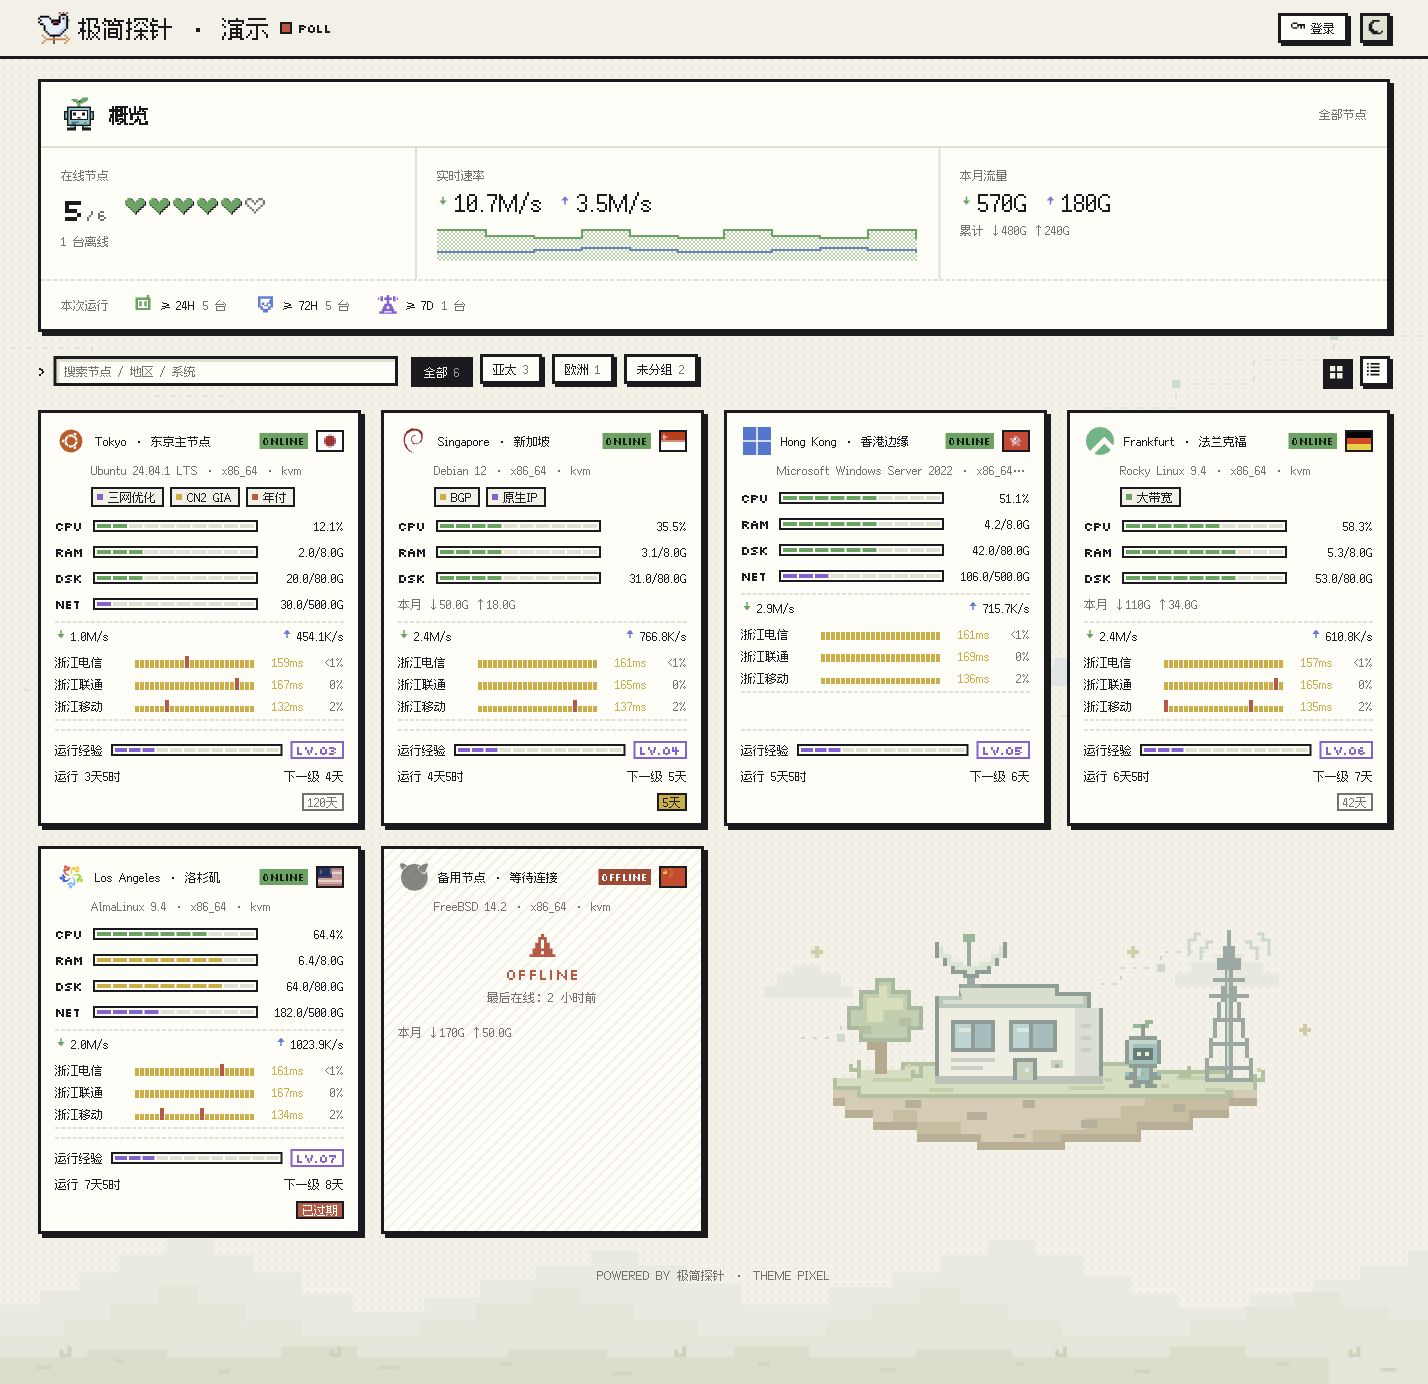
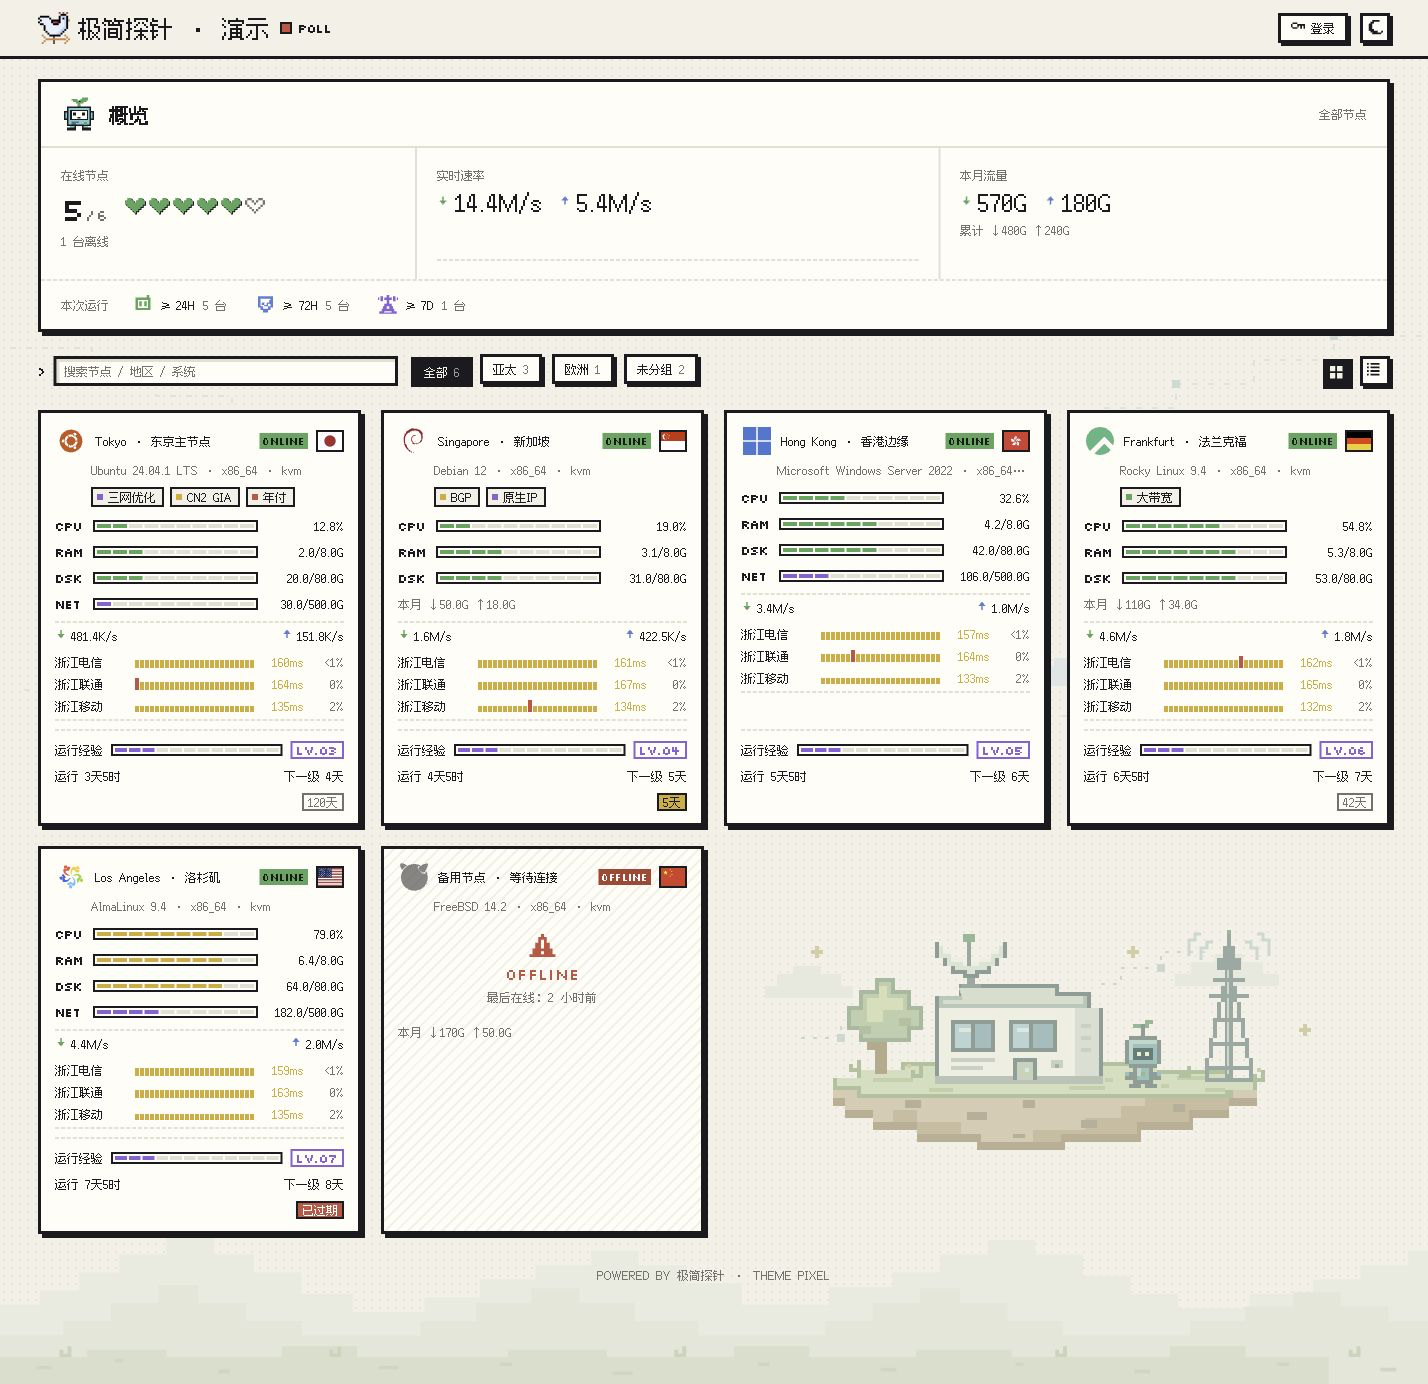
Increase flag pixel density and refresh previews

Changed region(s): [[0.3081, 0.1553, 0.6471, 0.1864], [0.9552, 0.0, 0.986, 0.0311], [0.2157, 0.6214, 0.2465, 0.6525]]

diff --git a/src/components/PixelFlag.vue b/src/components/PixelFlag.vue
@@ -12,8 +12,8 @@ const urls = new Map(Object.entries(FLAGS).map(([path, url]) => [path.split('/')
 /** Rasterized once per country, shared by every card. */
 const cache = new Map<string, Promise<string>>()
 
-const W = 12
-const H = 9
+const W = 24
+const H = 18
 
 function pixelate(url: string): Promise<string> {
   return new Promise((resolve, reject) => {

diff --git a/README.md b/README.md
@@ -9,7 +9,7 @@
 ## 功能
 
 - **首页**：在线数、实时速率（带 2 分钟像素迷你图）、本月 / 累计流量与运行时长统计整合为概览；搜索框后提供分组筛选；卡片 / 列表两种布局；离线节点置底。
-- **节点卡片**：左上角按操作系统名称匹配像素 Logo（覆盖 21 种系统图标，无法识别时显示通用服务器图标，离线时变灰），右上角像素国旗；CPU / 内存 / 磁盘 / 流量配额方块条、实时上下行、在线时长、到期天数（使用 Hub 下发的 `expires_in`），可选显示价格。
+- **节点卡片**：左上角按操作系统名称匹配像素 Logo（覆盖 21 种系统图标，无法识别时显示通用服务器图标，离线时变灰），右上角 24×18 像素国旗；CPU / 内存 / 磁盘 / 流量配额方块条、实时上下行、在线时长、到期天数（使用 Hub 下发的 `expires_in`），可选显示价格。
 - **备注标签**：节点的公开备注（Hub 1.3.2 起的 `public_remark`）按 `;` 或 `；` 拆分为多个标签，显示在卡片与详情页，所有访客可见；同名标签颜色固定。旧版 Hub 没有公开备注，退回读取只下发给已登录管理员的私有备注。
 - **节点延迟**：卡片显示前几条探测线路的最新延迟、近 24 次采样的像素柱状条（绿 <100ms、黄 <200ms、红 ≥200ms 或超时）与 1 小时丢包率；列表视图增加 PING 列。
 - **节点详情** `/node/{id}`：实时负载（CPU / 内存 / 交换 / 磁盘 / 流量配额 / 速率）、系统信息、历史图（CPU、内存与 Swap、网络、磁盘、TCP / UDP 连接数、进程数、多线路 Ping 与丢包），canvas 逐像素绘制，悬停显示读数。时间范围按 Hub 的保留天数生成（1H / 6H / 24H / 7D / 30D / 90D / 全部）；CPU 与网速另以淡色画出区间峰值。Swap、连接数与进程数需要 Hub 1.4.1+，旧版 Hub 不显示这几项。
